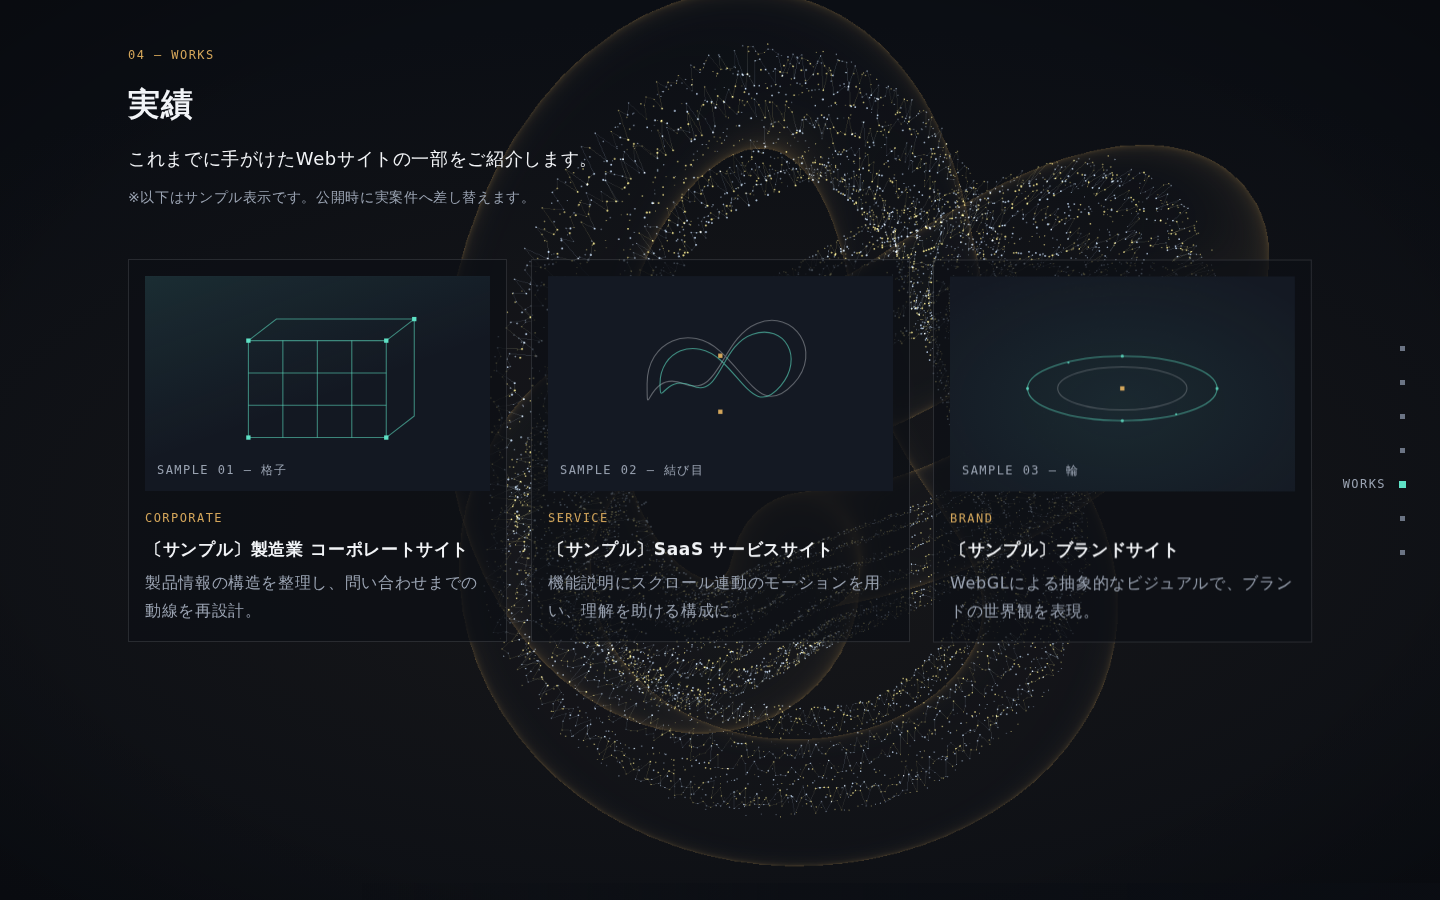
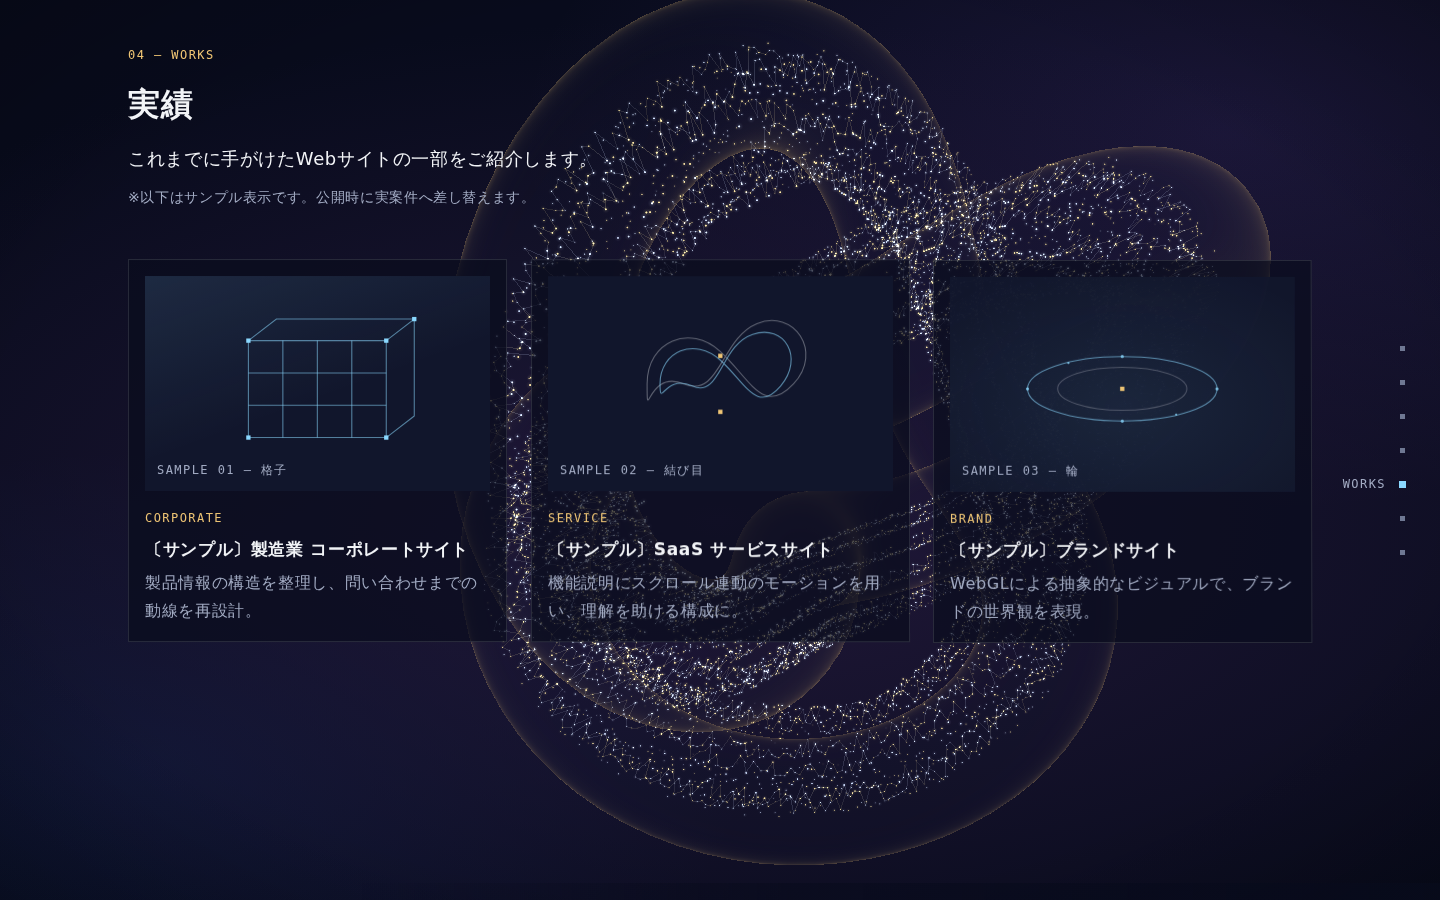
Switch palette to a space theme (colour only)
Deep indigo background with faint nebula gradients, starlight cyan
primary, star-gold secondary; 3D point / rim colours updated to match.
Structure, motion and copy unchanged. OG image and reference
screenshots regenerated; brand brief carries a v1.1 note.

Claude-Session: https://claude.ai/code/session_01Fd1mfAUBwXNiZSSwWGqTG3

Changed region(s): [[0.0, 0.0, 1.0, 0.9644]]

diff --git a/index.html b/index.html
@@ -4,7 +4,7 @@
     <meta charset="UTF-8" />
     <meta name="viewport" content="width=device-width, initial-scale=1.0, viewport-fit=cover" />
     <meta name="color-scheme" content="dark" />
-    <meta name="theme-color" content="#0B0E14" />
+    <meta name="theme-color" content="#080B1C" />
     <title>株式会社SD｜構造が、動き出す。Web制作スタジオ</title>
     <meta
       name="description"
@@ -256,9 +256,9 @@
           <ul class="works" id="works-list">
             <li class="work" data-reveal="card">
               <div class="work__thumb work__thumb--1" aria-hidden="true">
-                <svg viewBox="0 0 320 200" fill="none" stroke="#5EE1C5" stroke-width="1" stroke-opacity="0.55">
+                <svg viewBox="0 0 320 200" fill="none" stroke="#8AD8FF" stroke-width="1" stroke-opacity="0.55">
                   <g><path d="M96 60h128M96 90h128M96 120h128M96 150h128"/><path d="M96 60v90M128 60v90M160 60v90M192 60v90M224 60v90"/><path d="M96 60l26-20h128l-26 20M224 60l26-20v90l-26 20M224 150l26-20"/></g>
-                  <g fill="#5EE1C5" stroke="none"><rect x="94" y="58" width="4" height="4"/><rect x="222" y="58" width="4" height="4"/><rect x="94" y="148" width="4" height="4"/><rect x="222" y="148" width="4" height="4"/><rect x="248" y="38" width="4" height="4"/></g>
+                  <g fill="#8AD8FF" stroke="none"><rect x="94" y="58" width="4" height="4"/><rect x="222" y="58" width="4" height="4"/><rect x="94" y="148" width="4" height="4"/><rect x="222" y="148" width="4" height="4"/><rect x="248" y="38" width="4" height="4"/></g>
                 </svg>
                 <span class="work__tag">SAMPLE 01 — 格子</span>
               </div>
@@ -270,8 +270,8 @@
               <div class="work__thumb work__thumb--2" aria-hidden="true">
                 <svg viewBox="0 0 320 200" fill="none" stroke="#F2F4F7" stroke-width="1" stroke-opacity="0.35">
                   <path d="M92 100c0-40 40-56 68-30s40 60 68 30 0-70-34-56-34 70-68 56S92 140 92 100z"/>
-                  <path d="M104 100c0-30 32-44 56-22s34 50 56 24 4-58-26-48-30 60-56 48-30 22-30-2z" stroke="#5EE1C5" stroke-opacity="0.6"/>
-                  <g fill="#D4A65A" stroke="none"><rect x="158" y="72" width="4" height="4"/><rect x="158" y="124" width="4" height="4"/></g>
+                  <path d="M104 100c0-30 32-44 56-22s34 50 56 24 4-58-26-48-30 60-56 48-30 22-30-2z" stroke="#8AD8FF" stroke-opacity="0.6"/>
+                  <g fill="#F0C674" stroke="none"><rect x="158" y="72" width="4" height="4"/><rect x="158" y="124" width="4" height="4"/></g>
                 </svg>
                 <span class="work__tag">SAMPLE 02 — 結び目</span>
               </div>
@@ -282,10 +282,10 @@
             <li class="work" data-reveal="card">
               <div class="work__thumb work__thumb--3" aria-hidden="true">
                 <svg viewBox="0 0 320 200" fill="none">
-                  <ellipse cx="160" cy="104" rx="88" ry="30" stroke="#5EE1C5" stroke-opacity="0.6"/>
+                  <ellipse cx="160" cy="104" rx="88" ry="30" stroke="#8AD8FF" stroke-opacity="0.6"/>
                   <ellipse cx="160" cy="104" rx="60" ry="20" stroke="#F2F4F7" stroke-opacity="0.25"/>
-                  <g fill="#5EE1C5" fill-opacity="0.8"><circle cx="72" cy="104" r="1.5"/><circle cx="248" cy="104" r="1.5"/><circle cx="160" cy="74" r="1.5"/><circle cx="160" cy="134" r="1.5"/><circle cx="110" cy="80" r="1"/><circle cx="210" cy="128" r="1"/></g>
-                  <rect x="158" y="102" width="4" height="4" fill="#D4A65A"/>
+                  <g fill="#8AD8FF" fill-opacity="0.8"><circle cx="72" cy="104" r="1.5"/><circle cx="248" cy="104" r="1.5"/><circle cx="160" cy="74" r="1.5"/><circle cx="160" cy="134" r="1.5"/><circle cx="110" cy="80" r="1"/><circle cx="210" cy="128" r="1"/></g>
+                  <rect x="158" y="102" width="4" height="4" fill="#F0C674"/>
                 </svg>
                 <span class="work__tag">SAMPLE 03 — 輪</span>
               </div>

diff --git a/src/styles/components.css b/src/styles/components.css
@@ -93,7 +93,7 @@
     transform 0.35s var(--ease-out);
 }
 .header.is-scrolled {
-  background: rgba(11, 14, 20, 0.85);
+  background: rgba(8, 11, 28, 0.85);
   border-bottom-color: var(--sd-line);
 }
 .header.is-hidden { transform: translateY(-100%); }
@@ -144,7 +144,7 @@
 /* ---------- Mobile menu ---------- */
 .menu {
   position: fixed; inset: 0; z-index: 3;
-  background: rgba(11, 14, 20, 0.96);
+  background: rgba(8, 11, 28, 0.96);
   display: flex; flex-direction: column; justify-content: center;
   padding: var(--header-h) var(--gutter) var(--space-8);
   clip-path: circle(0% at calc(100% - 38px) 32px);
@@ -225,7 +225,7 @@
 }
 @media (min-width: 768px) { .works { grid-template-columns: repeat(3, 1fr); } }
 .work {
-  background: rgba(11, 14, 20, 0.72);
+  background: rgba(8, 11, 28, 0.72);
   border: 1px solid rgba(242, 244, 247, 0.12);
   padding: var(--space-4);
   transition: transform var(--dur-ui) var(--ease-out), border-color var(--dur-ui) var(--ease-out);
@@ -236,8 +236,8 @@
   background: var(--sd-surface); overflow: hidden;
 }
 .work__thumb svg { position: absolute; inset: 0; width: 100%; height: 100%; }
-.work__thumb--1 { background: linear-gradient(160deg, rgba(94, 225, 197, 0.10) 0%, transparent 55%), var(--sd-surface); }
-.work__thumb--3 { background: radial-gradient(70% 70% at 50% 60%, rgba(94, 225, 197, 0.08) 0%, transparent 100%), var(--sd-surface); }
+.work__thumb--1 { background: linear-gradient(160deg, rgba(138, 216, 255, 0.10) 0%, transparent 55%), var(--sd-surface); }
+.work__thumb--3 { background: radial-gradient(70% 70% at 50% 60%, rgba(138, 216, 255, 0.08) 0%, transparent 100%), var(--sd-surface); }
 .work__tag {
   position: absolute; left: 0.75rem; bottom: 0.6rem;
   font-family: var(--sd-font-mono); font-size: var(--sd-fs-label); letter-spacing: var(--sd-ls-label);

diff --git a/src/scroll/sections.ts b/src/scroll/sections.ts
@@ -143,7 +143,7 @@ export function setupSections(o: SectionsOptions): () => void {
     const tl = sectionTimeline('works');
     seg(tl, 0, 0.3, { knotOpacity: 0, pointSize: 2.0, lineOpacity: 0.35, accentMix: 0.25, colorMix: 0.5 }, { knotOpacity: 0.55, pointSize: 1.6, lineOpacity: 0.15, accentMix: 0.6, colorMix: 1 });
     seg(tl, 0, 0.3, { camX: 2.2, camY: 1.0, camZ: 5.2, tX: X_PROCESS, fov: 40 }, { camX: 0, camY: 0.3, camZ: 6.2, tX: X_WORKS, fov: 38 });
-    bg(tl, 0, 0.3, { '--bg-x': '50%', '--bg-y': '70%', '--bg-c': '#141a26' }, { '--bg-x': '50%', '--bg-y': '50%', '--bg-c': '#1a1712' });
+    bg(tl, 0, 0.3, { '--bg-x': '50%', '--bg-y': '70%', '--bg-c': '#141b3a' }, { '--bg-x': '50%', '--bg-y': '50%', '--bg-c': '#2a1638' });
     seg(tl, 0, 1, { tY: 0 }, { tY: 0.2 });
     // the solid fades out while the cards are still on screen (brief §3.1: glow stays a minority)
     seg(tl, 0.6, 0.8, { knotOpacity: 0.55 }, { knotOpacity: 0 });
@@ -160,7 +160,7 @@ export function setupSections(o: SectionsOptions): () => void {
       { w4: 0, w5: 1, noise: 0.02, accentMix: 0.15, idleSpeed: 0.01, colorMix: 0.3, rotX: 0, breath: 0.012 });
     seg(tl, 0.15, 0.4, { slabOpacity: 0 }, { slabOpacity: 0.8 });
     seg(tl, 0, 0.3, { camX: 0, camY: 0.3, camZ: 6.2, tX: X_WORKS, tY: 0.2, fov: 38 }, { camX: -1.6, camY: -0.8, camZ: 7.0, tX: X_COMPANY, tY: 0.6, fov: 42 });
-    bg(tl, 0, 0.3, { '--bg-x': '50%', '--bg-y': '50%', '--bg-c': '#1a1712' }, { '--bg-x': '35%', '--bg-y': '55%', '--bg-c': '#141a26' });
+    bg(tl, 0, 0.3, { '--bg-x': '50%', '--bg-y': '50%', '--bg-c': '#2a1638' }, { '--bg-x': '35%', '--bg-y': '55%', '--bg-c': '#141b3a' });
     tls.push(tl);
   }
 

diff --git a/src/styles/sections.css b/src/styles/sections.css
@@ -5,13 +5,13 @@
 }
 /* keep scrims below content but above the fixed canvas: sections sit inside z-index:2 main */
 .section { isolation: isolate; }
-.scrim-l::before { background: linear-gradient(90deg, rgba(11, 14, 20, 0.78) 0%, rgba(11, 14, 20, 0.55) 45%, transparent 75%); }
-.scrim-r::before { background: linear-gradient(270deg, rgba(11, 14, 20, 0.78) 0%, rgba(11, 14, 20, 0.55) 45%, transparent 75%); }
-.scrim-c::before { background: radial-gradient(60% 50% at 50% 50%, rgba(11, 14, 20, 0.7) 0%, transparent 100%); }
+.scrim-l::before { background: linear-gradient(90deg, rgba(8, 11, 28, 0.78) 0%, rgba(8, 11, 28, 0.55) 45%, transparent 75%); }
+.scrim-r::before { background: linear-gradient(270deg, rgba(8, 11, 28, 0.78) 0%, rgba(8, 11, 28, 0.55) 45%, transparent 75%); }
+.scrim-c::before { background: radial-gradient(60% 50% at 50% 50%, rgba(8, 11, 28, 0.7) 0%, transparent 100%); }
 .section--hero::before { opacity: 0.5; }
 @media (max-width: 767px) {
   .scrim-l::before, .scrim-r::before {
-    background: linear-gradient(180deg, transparent 0%, rgba(11, 14, 20, 0.7) 30%, rgba(11, 14, 20, 0.85) 100%);
+    background: linear-gradient(180deg, transparent 0%, rgba(8, 11, 28, 0.7) 30%, rgba(8, 11, 28, 0.85) 100%);
   }
 }
 

diff --git a/src/styles/base.css b/src/styles/base.css
@@ -48,7 +48,9 @@ hr { border: 0; }
 .bg {
   position: fixed; inset: 0; z-index: 0;
   background:
-    radial-gradient(120% 90% at var(--bg-x) var(--bg-y), var(--bg-c) 0%, var(--sd-bg) 62%),
+    radial-gradient(120% 90% at var(--bg-x) var(--bg-y), var(--bg-c) 0%, transparent 62%),
+    radial-gradient(70% 60% at 85% 15%, rgba(120, 80, 200, 0.16) 0%, transparent 70%),
+    radial-gradient(60% 50% at 10% 85%, rgba(40, 90, 200, 0.14) 0%, transparent 70%),
     var(--sd-bg);
   pointer-events: none;
 }
@@ -60,9 +62,9 @@ hr { border: 0; }
   position: absolute; inset: 0; display: none; opacity: 0.18;
   background-image:
     radial-gradient(circle at 20% 30%, #f2f4f7 0.6px, transparent 1.2px),
-    radial-gradient(circle at 70% 60%, #5ee1c5 0.6px, transparent 1.2px),
+    radial-gradient(circle at 70% 60%, #8ad8ff 0.6px, transparent 1.2px),
     radial-gradient(circle at 45% 80%, #f2f4f7 0.5px, transparent 1px),
-    radial-gradient(circle at 85% 15%, #d4a65a 0.5px, transparent 1px);
+    radial-gradient(circle at 85% 15%, #f0c674 0.5px, transparent 1px);
   background-size: 140px 140px, 220px 220px, 90px 90px, 300px 300px;
 }
 html[data-webgl="0"] .bg-fallback { display: block; }

diff --git a/src/styles/tokens.css b/src/styles/tokens.css
@@ -1,25 +1,25 @@
 :root {
   color-scheme: dark;
 
-  /* Base (Brand Guardian §3.1) */
-  --sd-bg: #0b0e14;
-  --sd-bg-deep: #070910;
-  --sd-bg-2: #141a26;
-  --sd-bg-2-warm: #1a1712;
-  --sd-surface: #131822;
-  --sd-surface-2: #1b2230;
-  --sd-line: #273043;
+  /* Base (Brand Guardian §3.1, v1.1 宇宙配色: 深い藍 + 星明かりの水色 + 星の金) */
+  --sd-bg: #080b1c;
+  --sd-bg-deep: #05071a;
+  --sd-bg-2: #141b3a;
+  --sd-bg-2-warm: #2a1638;
+  --sd-surface: #10152b;
+  --sd-surface-2: #182040;
+  --sd-line: #27305a;
 
   /* Text */
   --sd-text: #f2f4f7;
-  --sd-text-2: #9aa3b2;
-  --sd-text-3: #6b7484;
+  --sd-text-2: #a3acc4;
+  --sd-text-3: #6f7893;
 
   /* Accent */
-  --sd-primary: #5ee1c5;
-  --sd-secondary: #d4a65a;
+  --sd-primary: #8ad8ff;
+  --sd-secondary: #f0c674;
   --sd-signal: #ff6b4a;
-  --sd-signal-text: #0b0e14;
+  --sd-signal-text: #080b1c;
 
   /* Fonts */
   --sd-font-jp: "Zen Kaku Gothic New", "Hiragino Kaku Gothic ProN", "Noto Sans JP", system-ui, sans-serif;
@@ -61,7 +61,7 @@
   /* Background driver (tweened by GSAP) */
   --bg-x: 50%;
   --bg-y: 60%;
-  --bg-c: #141a26;
+  --bg-c: #141b3a;
 }
 
 @media (min-width: 768px) {

diff --git a/src/three/scene.ts b/src/three/scene.ts
@@ -20,13 +20,13 @@ export type SceneController = {
 const BASE_SCALE = 0.75;
 
 const COLORS = {
-  base: new THREE.Color('#9fb0c4'),
-  primary: new THREE.Color('#5ee1c5'),
-  secondary: new THREE.Color('#d4a65a'),
-  knotBase: new THREE.Color('#1e2533'),
-  knotRim: new THREE.Color('#d4a65a'),
-  slabBase: new THREE.Color('#2a3446'),
-  slabRim: new THREE.Color('#d9d4c7'),
+  base: new THREE.Color('#c7d6f0'),   // cool starlight white
+  primary: new THREE.Color('#8ad8ff'), // star cyan
+  secondary: new THREE.Color('#f0c674'), // star gold
+  knotBase: new THREE.Color('#1a1f3d'),
+  knotRim: new THREE.Color('#f0c674'),
+  slabBase: new THREE.Color('#2a3358'),
+  slabRim: new THREE.Color('#e6e9f5'),
 };
 
 export function createScene(canvas: HTMLCanvasElement, opts: { isMobile: boolean; interactive: boolean }): SceneController | null {

diff --git a/docs/brand-brief.md b/docs/brand-brief.md
@@ -68,6 +68,9 @@
 
 ### 3.1 カラーパレット（CSS Custom Properties）
 
+> **v1.1（2026-09-23）宇宙配色への変更**: クライアント要望により配色のみ「宇宙」寄りに変更。構造・モーション・コピーは v1.0 のまま。実装値は `src/styles/tokens.css` を正とする。
+> 背景 `#080B1C`（深い藍）/ 最深部 `#05071A` / 面 `#10152B` / 罫線 `#27305A` / 補足文字 `#A3ACC4` / プライマリ `#8AD8FF`（星明かりの水色、対背景 約12:1）/ セカンダリ `#F0C674`（星の金、約12:1）/ CTA は `#FF6B4A` のまま。3D は点 `#C7D6F0`、発光 `#8AD8FF` と `#F0C674`。背景に紫と青の星雲状グラデーションを 15% 程度の濃さで追加。
+
 ```css
 :root {
   /* Base */
